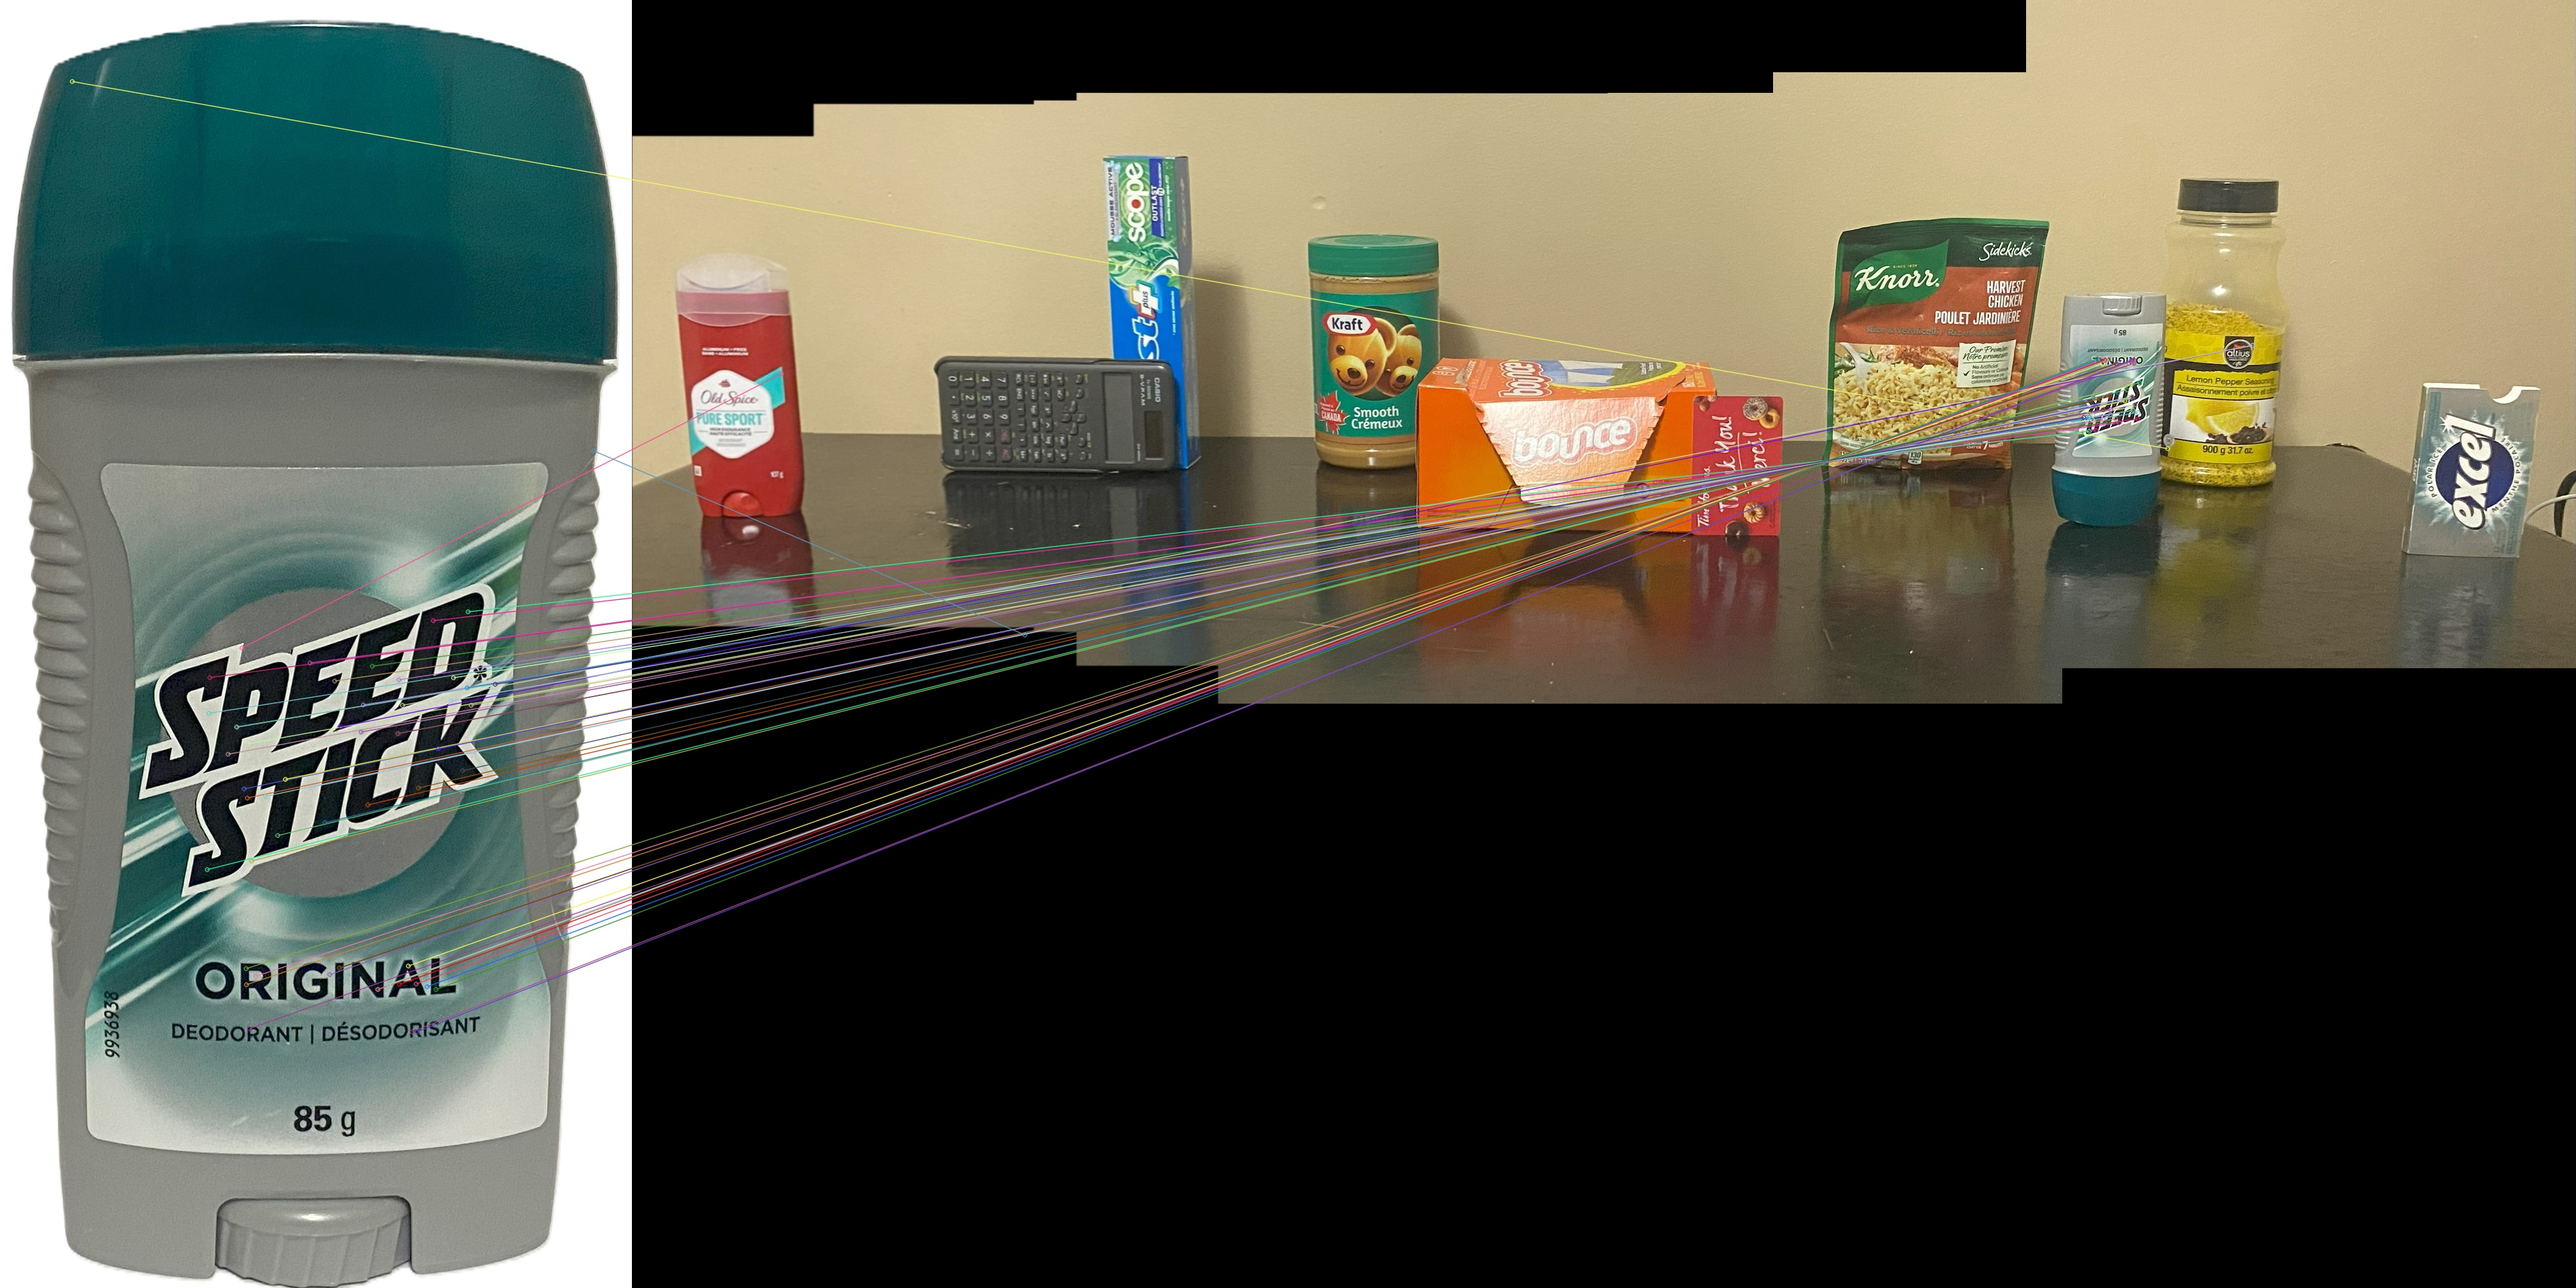
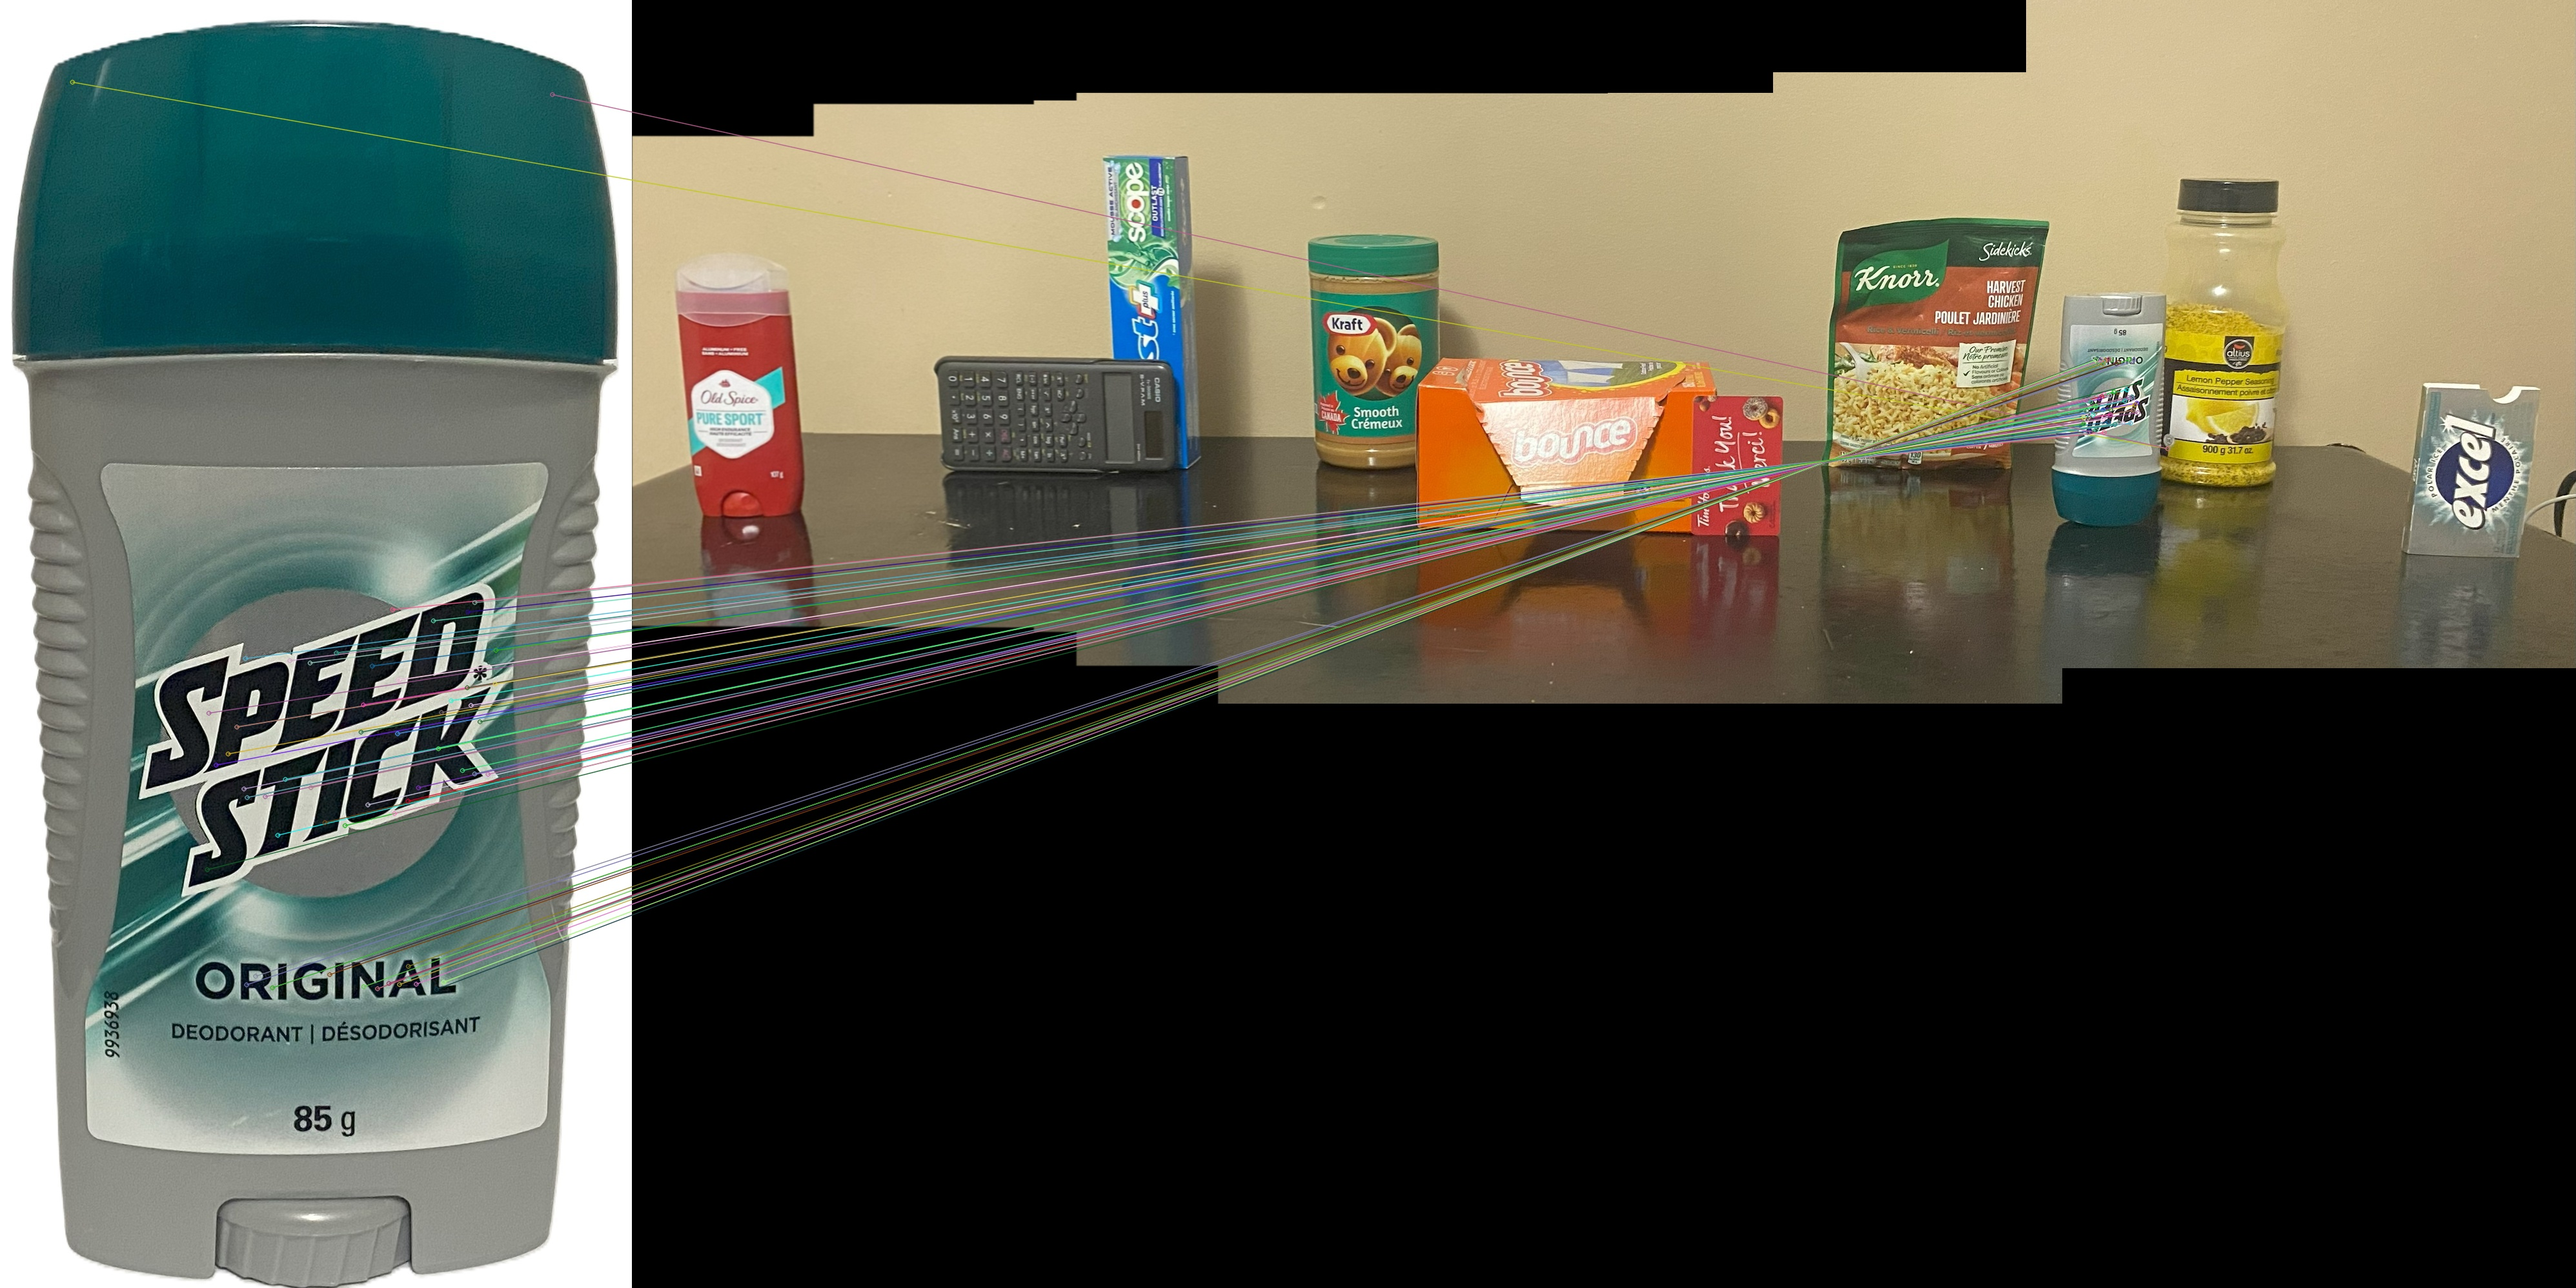
k

Changed region(s): [[0.0932, 0.2794, 0.8389, 0.7762]]

diff --git a/Code/Task3.py b/Code/Task3.py
@@ -17,6 +17,8 @@ from sklearn.cluster import DBSCAN
 DIRECTORY = "./Panorama"
 OBJECTS_DIRECTORY = "./Objects"
 
+
+
 object_names = [
     "speed stick",
     "seasoning",
@@ -51,7 +53,7 @@ def detect_and_describe(image):
     return keypoints, descriptors
 
 
-def match_keypoints(descriptors1, descriptors2, ratio=0.46):
+def match_keypoints(descriptors1, descriptors2, ratio=0.50):
     """
     -------------------------------------------------------
     Matches descriptors between two images using FLANN-based matcher.
@@ -221,11 +223,12 @@ if __name__ == "__main__":
     # cv.waitKey(0)
     # cv.destroyAllWindows()
 
+    
     pano_kp, pano_des = detect_and_describe(stitched_image)
     for i, objectImageFile in enumerate(sorted(os.listdir(OBJECTS_DIRECTORY))):
 
         objectImage = cv.imread(os.path.join(OBJECTS_DIRECTORY, objectImageFile))
-        obj_kp, obj_des = detect_and_describe(objectImage)
+        obj_kp, obj_des = detect_and_describe(cv.GaussianBlur(objectImage,(9,9),9))
 
         matches = match_keypoints(obj_des, pano_des)
 
